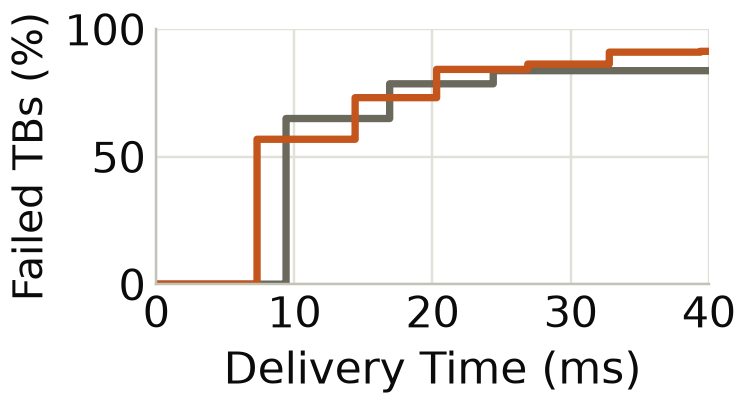
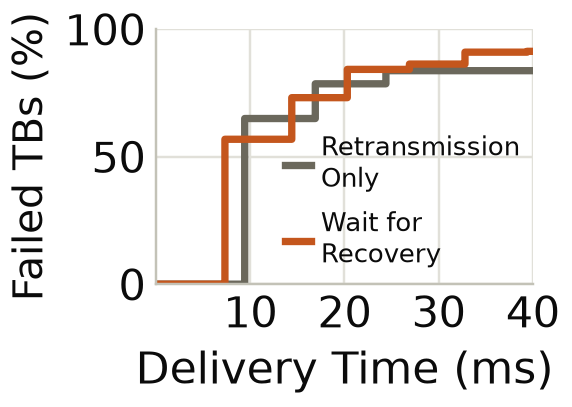
Figures restored for the 21-page text: grant-at-L1 bar in the retransmissions panel of the delay figure, delivery-time panel at the narrow size with its own legend in the motivation figure

diff --git a/figures/paper/make_eval_figures.py b/figures/paper/make_eval_figures.py
@@ -140,6 +140,9 @@ def effect():
     base.legend("eval_effect_legend", entries, width=9.6)
 
 
+GRANT_AT_L1 = "#d9b38c"   # the same recoveries of Reverb with the grant at the L1 result (no Recovery Gate)
+
+
 def delay():
     sys.path.insert(0, os.path.join(base.ROOT, "src", "analysis"))
     import paper_numbers as pn   # its trace loader and timing: the panels show the numbers of numbers.tex
@@ -150,6 +153,9 @@ def delay():
                        ("Reverb, Full Wait", "wait")):
         done, tx = simulate(conv, rec, conv_steps if pol == "harq_only" else steps, cand, pol, "DDDSU", pn.Timing, l1_steps=conv_steps)
         res[label] = (done[~conv], 100.0 * (tx - 1).sum() / len(tx))
+    # the same recoveries without Recovery Gate: every failed TB receives the grant at the L1 result (Section 5.2)
+    done, tx = simulate(conv, rec, steps, cand, "parallel", "DDDSU", pn.Timing, l1_steps=conv_steps)
+    res["Grant at L1 Result"] = (done[~conv], 100.0 * (tx - 1).sum() / len(tx))
     fig, ax = plt.subplots(figsize=PANEL4)
     for label in ("Conventional", "Reverb, Latency-Neutral", "Reverb, Full Wait"):
         d = np.sort(res[label][0])
@@ -167,13 +173,14 @@ def delay():
     save(fig, "eval_delay_cdf")
 
     fig, ax = plt.subplots(figsize=PANEL4)
-    order = ["Reverb, Full Wait", "Reverb, Latency-Neutral", "Conventional"]
+    order = ["Reverb, Full Wait", "Reverb, Latency-Neutral", "Grant at L1 Result", "Conventional"]
+    colors = {**WAITS, "Grant at L1 Result": GRANT_AT_L1}
     vals = [res[k][1] for k in order]
-    bs = ax.bar(range(3), vals, width=0.55, color=[WAITS[k] for k in order], zorder=3)
+    bs = ax.bar(range(4), vals, width=0.62, color=[colors[k] for k in order], zorder=3)
     for b, v in zip(bs, vals):
-        ax.text(b.get_x() + b.get_width() / 2, v + 0.4, f"{v:.1f}", ha="center", va="bottom", fontsize=VALUE)
-    ax.set_xticks(range(3))
-    ax.set_xticklabels(["Full\nWait", "Latency-\nNeutral", "Conven-\ntional"], fontsize=10.5)
+        ax.text(b.get_x() + b.get_width() / 2, v + 0.4, f"{v:.1f}", ha="center", va="bottom", fontsize=VALUE - 2)
+    ax.set_xticks(range(4))
+    ax.set_xticklabels(["Full\nWait", "Latency-\nNeutral", "Grant\nat L1", "Conven-\ntional"], fontsize=8)
     ax.set_ylim(0, 25)
     ax.set_ylabel("Per 100 TBs")
     style(ax)

diff --git a/figures/paper/make_paper_figures.py b/figures/paper/make_paper_figures.py
@@ -346,15 +346,16 @@ def motivation_delay():
     conv, rec = g["conv_t0"], g["nrx_c0"]
     sep = [None] + [g[f"sep_c{t}"] for t in range(1, total)]
     both = [None] + [g[f"sep_c{t}"] | g[f"nrx_c{t}"] for t in range(1, total)]
-    fig, ax = plt.subplots(figsize=PANEL)
+    fig, ax = plt.subplots(figsize=PANEL4)   # a panel of the four-panel Figure 4, with its own legend
     for label, pol, steps in (("Retransmission Only", "harq_only", sep), ("Wait for Recovery", "wait", both)):
         done, _ = simulate(conv, rec, steps, None, pol, "DDDSU", Timing, l1_steps=sep)
         d = np.sort(done[~conv])
         x = np.concatenate([[0], np.repeat(d[np.isfinite(d)], 2), [45]])
         y = np.concatenate([[0, 0], np.repeat(np.arange(1, np.isfinite(d).sum() + 1) / d.size * 100, 2)])[:x.size]
-        ax.plot(x, y, color=WAIT[label], linewidth=2.4)
+        ax.plot(x, y, color=WAIT[label], linewidth=2.4, label=label.replace(" Only", "\nOnly").replace(" for ", " for\n"))
+    ax.legend(loc="lower right", fontsize=8.5, frameon=False, handlelength=1.0, handletextpad=0.4, borderaxespad=0.1)
     ax.set_xlim(0, 40)
-    ax.set_xticks([0, 10, 20, 30, 40])
+    ax.set_xticks([10, 20, 30, 40])
     ax.set_ylim(0, 100)
     ax.set_yticks([0, 50, 100])
     ax.set_xlabel("Delivery Time (ms)")
